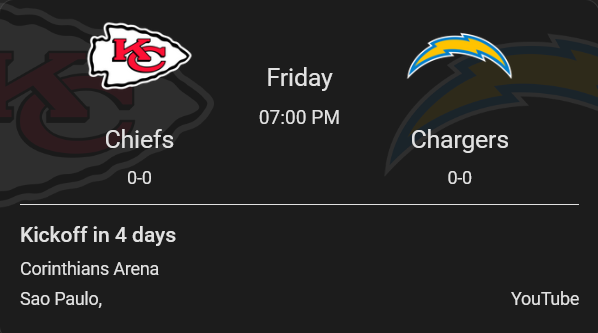
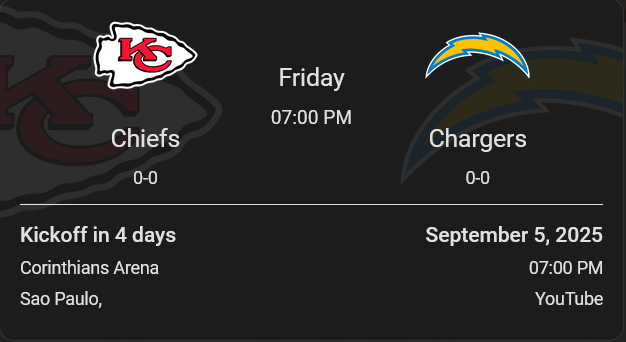
Add game date and time in place of odds

diff --git a/dist/ha-nfl-card.js b/dist/ha-nfl-card.js
@@ -38,6 +38,7 @@ class NFLCard extends LitElement {
     var gameTime = dateForm.toLocaleTimeString('en-US', { hour: '2-digit', minute:'2-digit' });
     var gameMonth = dateForm.toLocaleDateString('en-US', { month: 'short' });
     var gameDate = dateForm.toLocaleDateString('en-US', { day: '2-digit' });
+    var gameDateLong = dateForm.toLocaleDateString("en-US", { month: 'long', day: 'numeric', year: 'numeric'})
     var outColor = outlineColor;
     
     if (outline == true) {
@@ -261,6 +262,8 @@ class NFLCard extends LitElement {
             .kickoff { text-align: center; margin-top: -24px; }
             .odds {${disableOdds ? 'display: none;' : ''}}
             .overunder {${disableOdds ? 'display: none;' : '' }}
+            .date {${disableOdds ? '' : 'display: none;' }}
+            .time {${disableOdds ? '' : 'display: none;' }}
           </style>
           <ha-card>
               <div class="card">
@@ -284,12 +287,14 @@ class NFLCard extends LitElement {
               </div>
               <div class="line"></div>
               <div class="sub1">
-                <div class="date">Kickoff ${stateObj.attributes.kickoff_in}</div>
+                <div class="kickoff-in">Kickoff ${stateObj.attributes.kickoff_in}</div>
                 <div class="odds">${stateObj.attributes.odds}</div>
+                <div class="date">${gameDateLong}</div>
               </div>
               <div class="sub2">
                 <div class="venue">${stateObj.attributes.venue}</div>
                 <div class="overunder"> O/U: ${stateObj.attributes.overunder}</div>
+                <div class="time">${gameTime}</div>
               </div>
               <div class="sub3">
                 <div class="location">${stateObj.attributes.location}</div>
